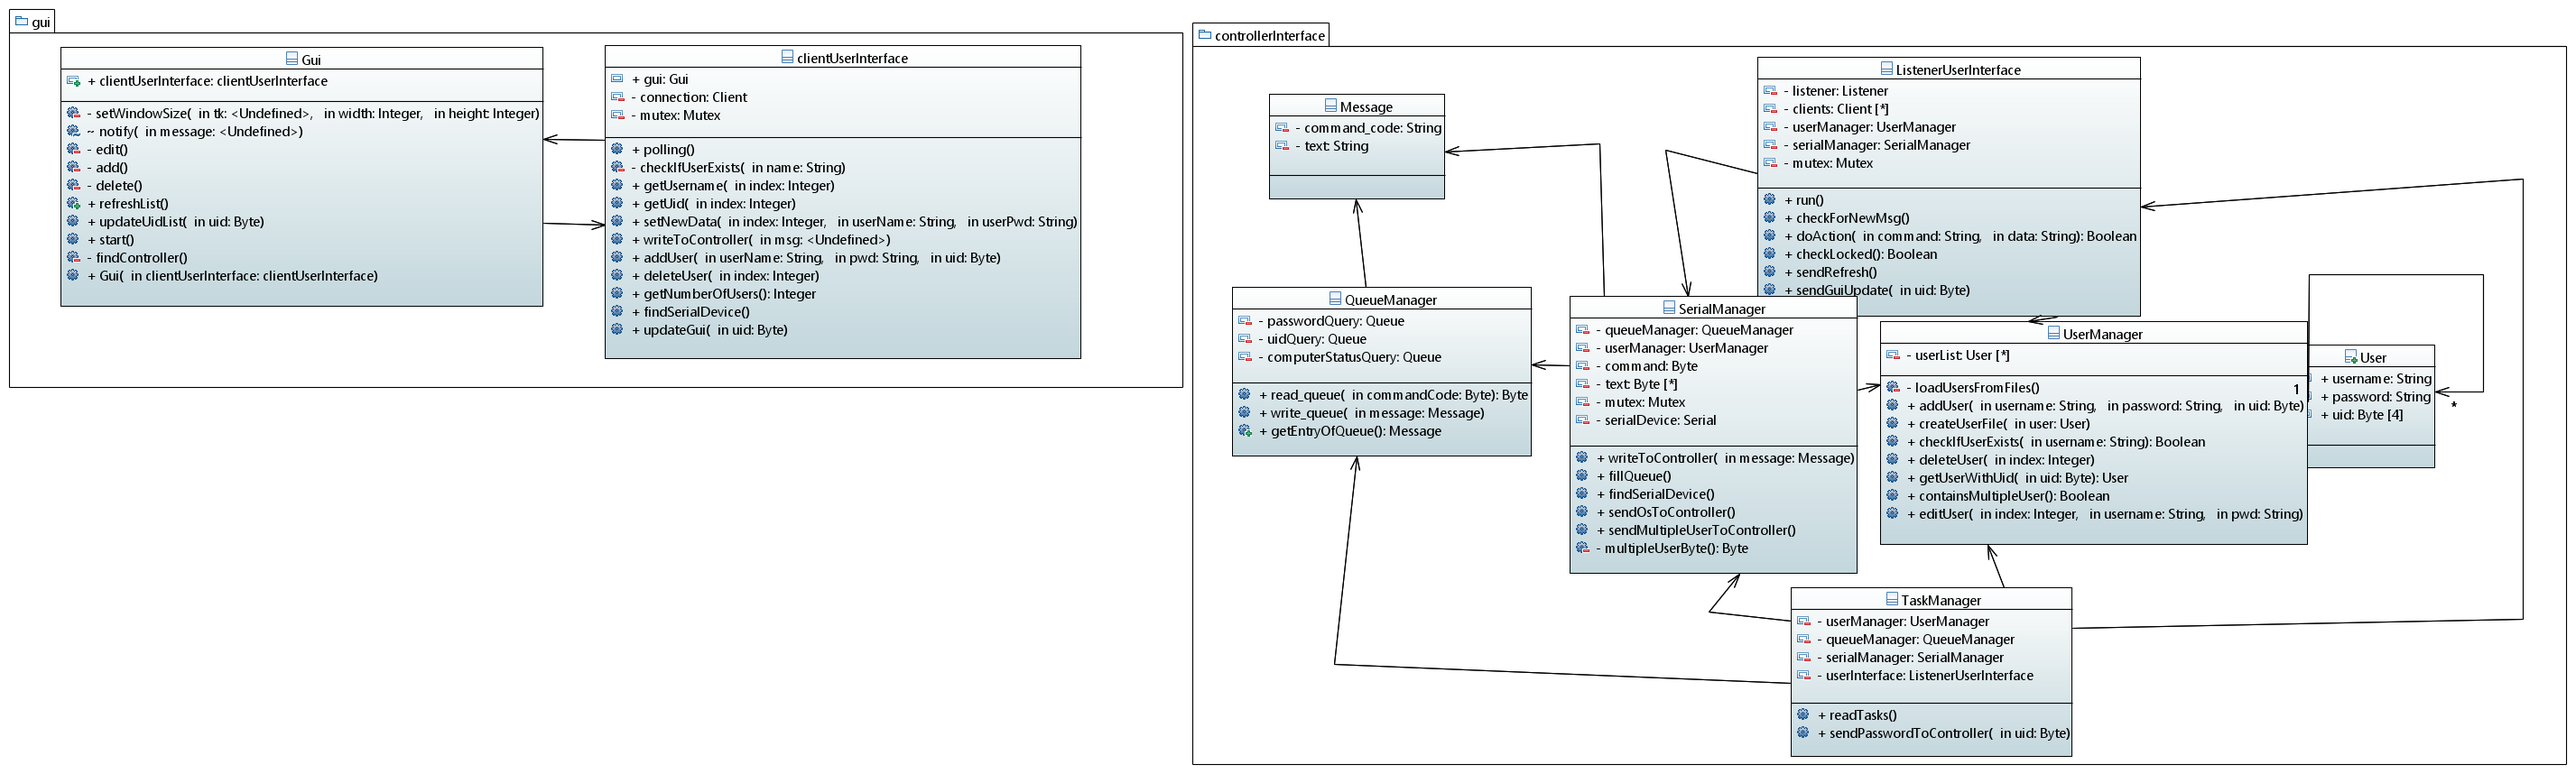
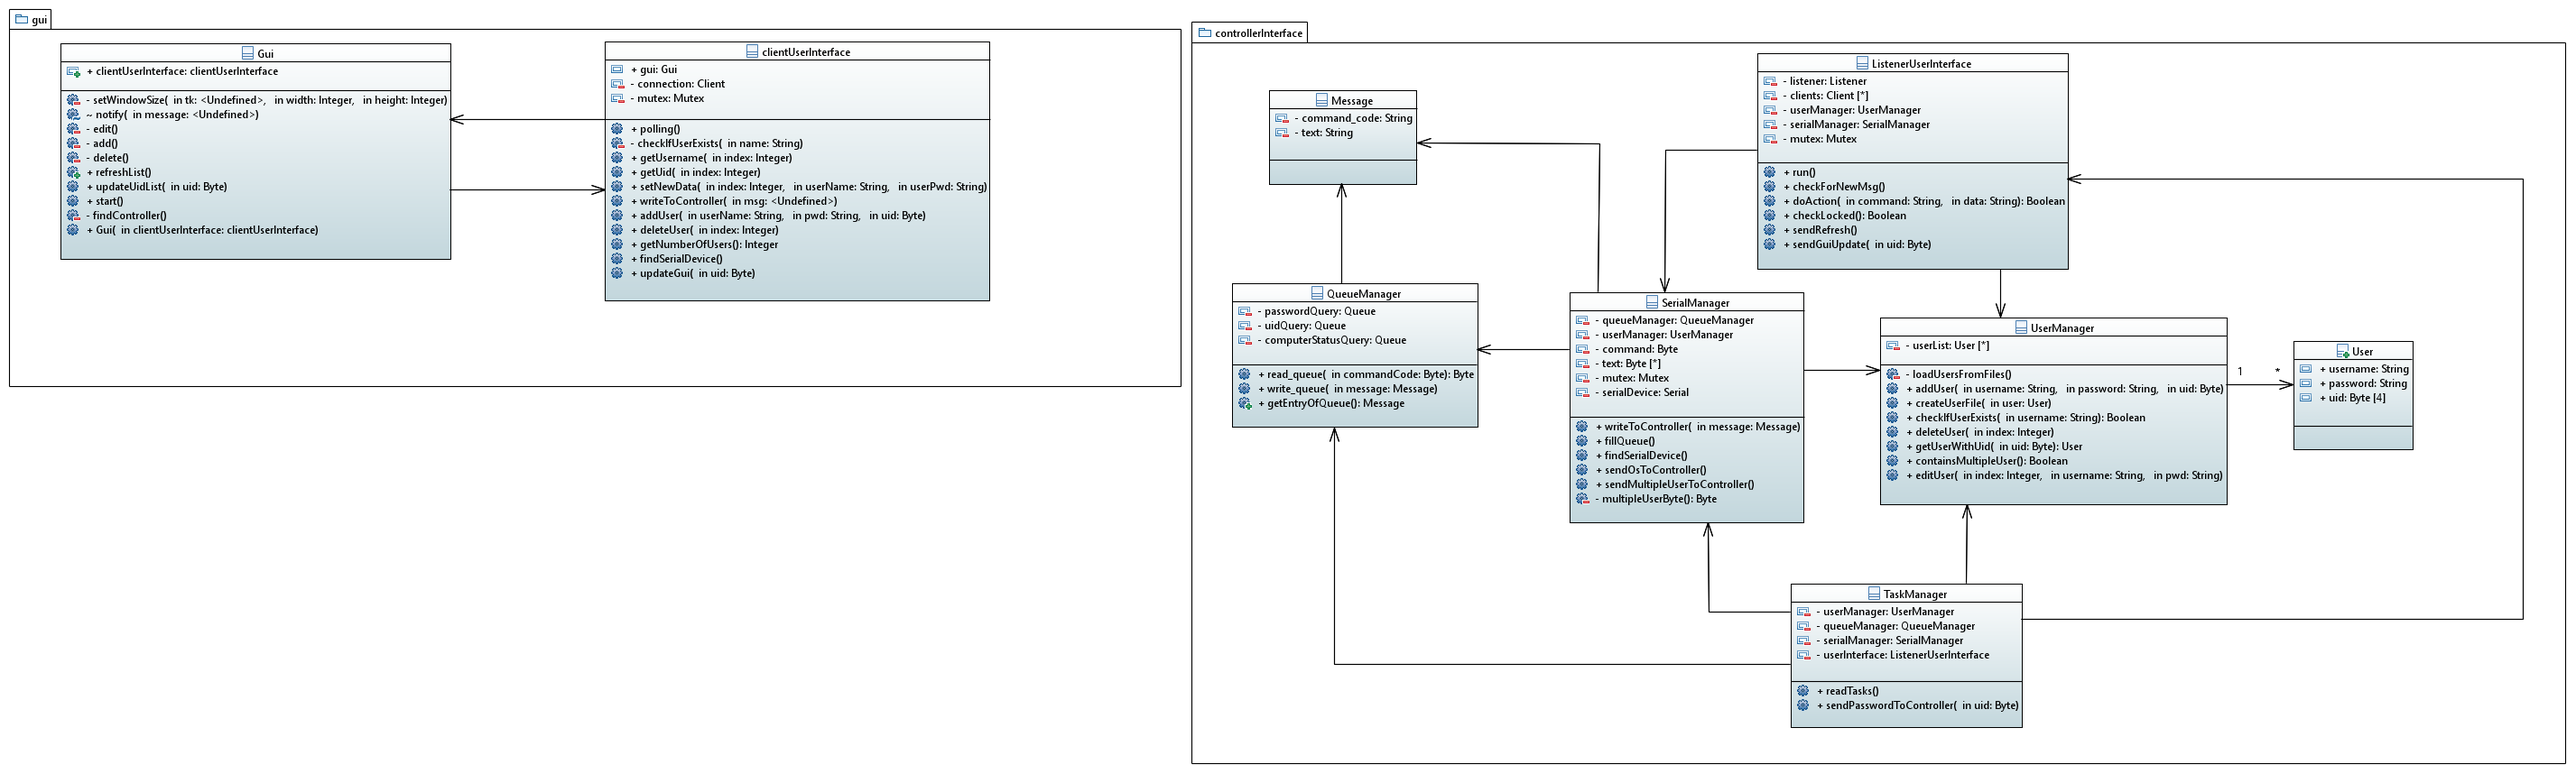
add class diagrams

diff --git a/documentation/Smock.md b/documentation/Smock.md
@@ -108,6 +108,10 @@ The last class of the service script is the __ListenerUserInterface__. This clas
 
 The user script is for the user. This opens a Gui that the user can use to add new User or edit/delete User. The __Gui__ has a main window and the different methods to answer the events that are triggered by pressing buttons. The user Script connects to the open port of the ListenerUserInterface of the service script. This happens in the class CLientUserInterface. The __ClientUserInterface__ has also the task to pass changes that are made by a user to the service script.
 
+![ClassDiagram_controllerInterface](../diagramme/Smock/ClassDiagramHost_controllerInterface.png)
+
+![ClassDiagram_gui](../diagramme/Smock/ClassDiagramHost_gui.png)
+
 ## Software processes
 
 ### Device
